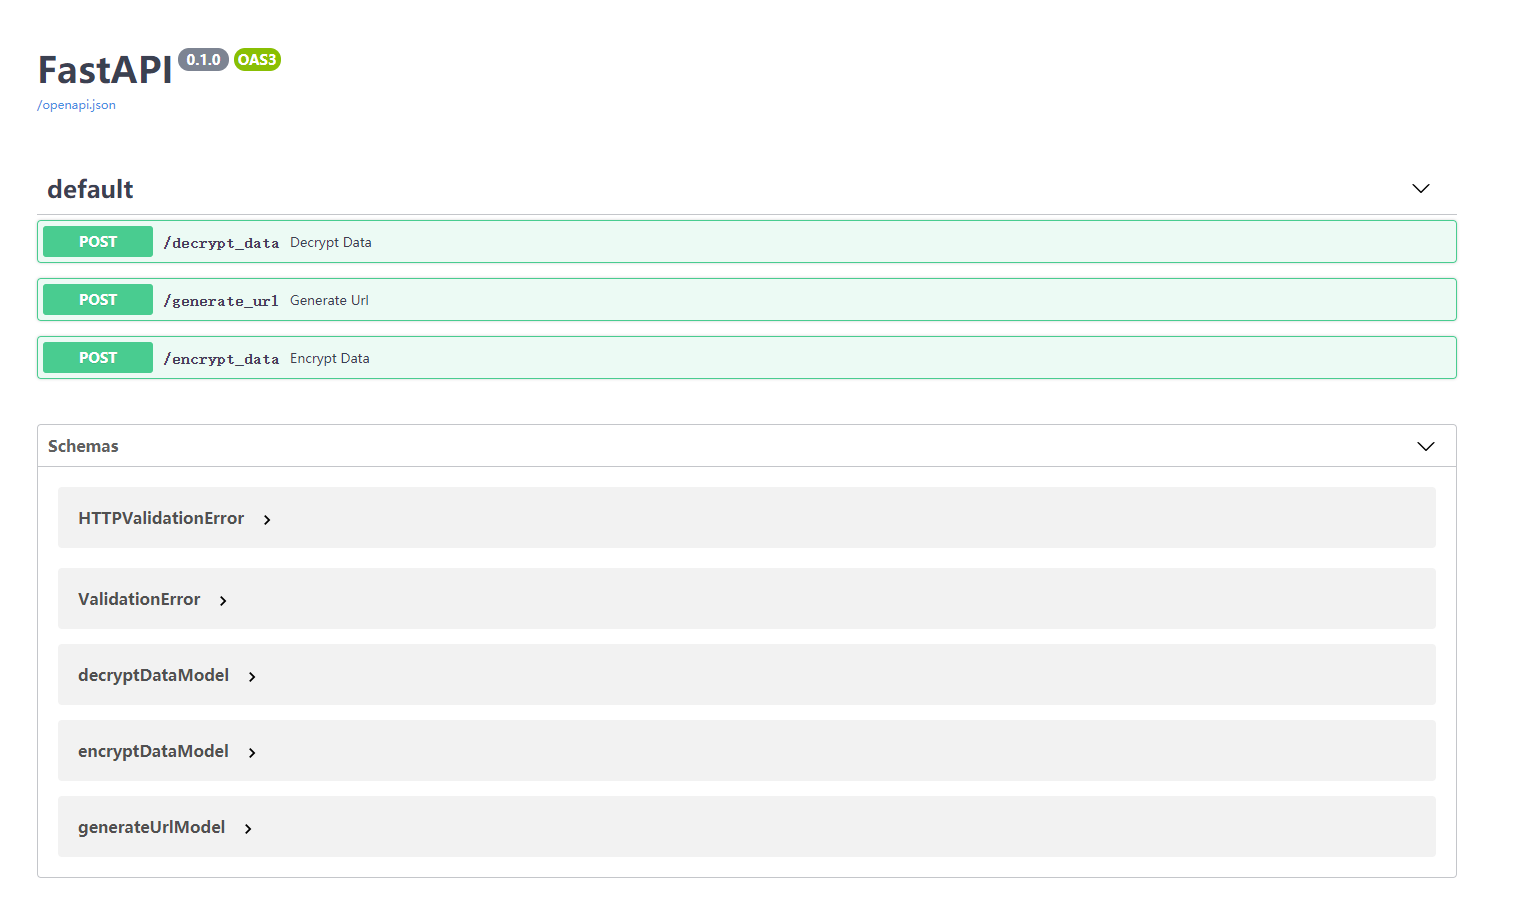
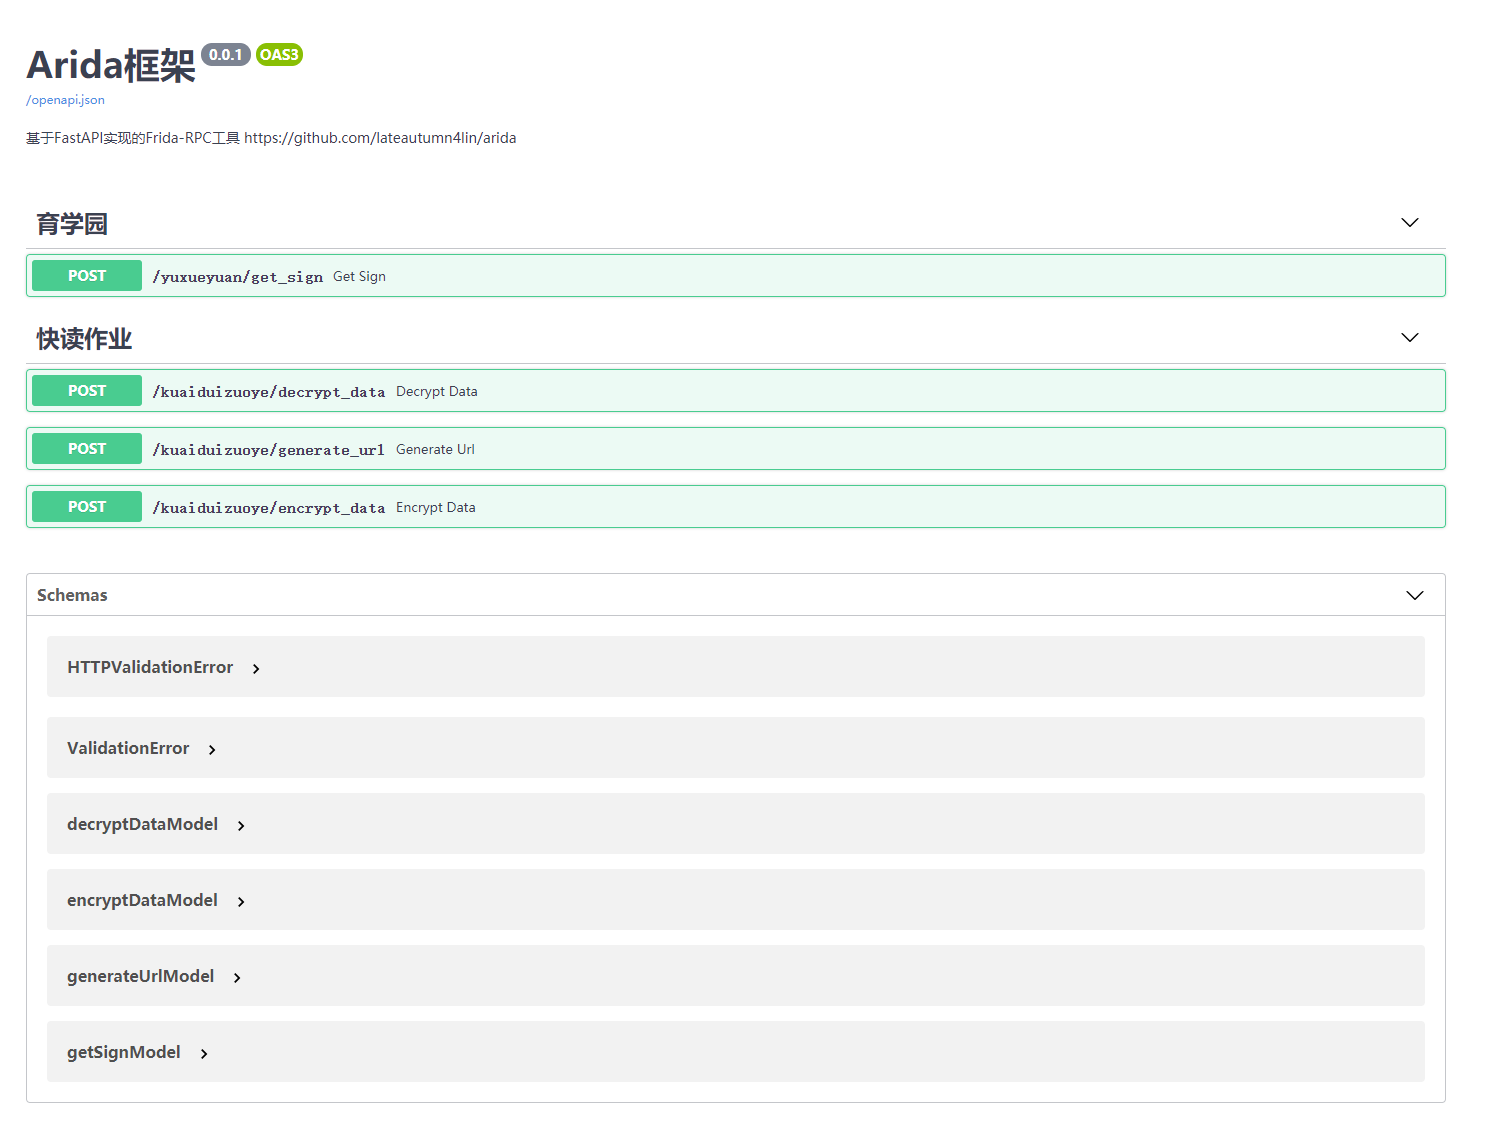
feat：frida对接多个app

diff --git a/apps/yuxueyuan.js b/apps/yuxueyuan.js
@@ -1,0 +1,18 @@
+var result = null;
+function get_sign(body) {
+  Java.perform(function () {
+    try {
+      var ksecurity = Java.use('com.drcuiyutao.lib.api.APIUtils');
+      result = ksecurity.updateBodyString(body)
+      console.log("myfunc result: " + result);
+    } catch (e) {
+      console.log(e)
+    }
+  });
+  return result;
+}
+
+
+rpc.exports = {
+  getSign: get_sign,
+}

diff --git a/main.py b/main.py
@@ -12,6 +12,7 @@
 from pathlib import Path
 from pydantic import BaseModel, Field, create_model
 from fastapi import APIRouter
+from fastapi.openapi.utils import get_openapi
 import time
 import frida
 from starlette.applications import Starlette
@@ -31,40 +32,70 @@ function_params_hints = {
     "encryptData": [0, 0, 0, 0, "", 0, 0, 0, 0, 0, 0]
 }
 # app相关信息
+_frida_js_path1 = Path(__file__).absolute().parent/"apps/yuxueyuan.js"
 _frida_js_path = Path(__file__).absolute().parent/"apps/kuaiduizuoye.js"
 _package_name = "com.kuaiduizuoye.scan"
+_package_name1 = "com.drcuiyutao.babyhealth"
 
-# frida注入
+# frida启动前检测
 if not detect_frida_state():
     # 启动frida-server，增加延迟防止附加失败
     start_frida_server()
     time.sleep(3)
-session = frida.get_usb_device().attach(_package_name)
-script = session.create_script(
-    open(_frida_js_path, encoding="utf-8").read()
-)
-script.load()
+
+for app_info in INJECTION_APPS:
+    session = frida.get_usb_device().attach(app_info["package_name"])
+    app_info["absolute_path"] = Path(__file__).absolute().parent / \
+        f"apps/{app_info['path']}.js"
+    script = session.create_script(
+        open(
+            app_info["absolute_path"],
+            encoding="utf-8"
+        ).read()
+    )
+    script.load()
+    app_info["script"] = script
 
 
 def init_app() -> Starlette:
     app = FastAPI()
     # 每个app创建特有路由
-    router = APIRouter()
-    for api_name, params in get_app_info(parse_path=PRASE_PATH, frida_js_path=_frida_js_path).items():
-        params_dict = dict(zip(params, function_params_hints[api_name])) if (
-            api_name in function_params_hints) else dict.fromkeys(params, "bb")
-        model_name = f"{api_name}Model"
-        Model = create_model(model_name, **params_dict)
-        new_api_name = name_transform(api_name)
-        func = generate_function(
-            new_api_name,
-            script,
-            model_name,
-            Model
+    for app_info in INJECTION_APPS:
+        router = APIRouter()
+        for api_name, params in get_app_info(parse_path=PRASE_PATH, frida_js_path=app_info["absolute_path"]).items():
+            params_dict = dict(zip(params, function_params_hints[api_name])) if (
+                api_name in function_params_hints) else dict.fromkeys(params, "bb")
+            model_name = f"{api_name}Model"
+            Model = create_model(model_name, **params_dict)
+            new_api_name = name_transform(api_name)
+            func = generate_function(
+                new_api_name,
+                app_info["script"],
+                model_name,
+                Model
+            )
+            router.add_api_route(f"/{new_api_name}", func, methods=["POST"])
+        app.include_router(
+            router,
+            prefix=f"/{app_info['path']}",
+            tags=[app_info["name"]]
         )
-        router.add_api_route(f"/{new_api_name}", func, methods=["POST"])
-    # 全局添加各app路由类
-    app.include_router(router)
+
+    def custom_openapi():
+        if app.openapi_schema:
+            return app.openapi_schema
+        openapi_schema = get_openapi(
+            title="Arida框架",
+            version="0.0.1",
+            description="基于FastAPI实现的Frida-RPC工具   https://github.com/lateautumn4lin/arida",
+            routes=app.routes,
+        )
+        openapi_schema["info"]["x-logo"] = {
+            "url": "https://fastapi.tiangolo.com/img/logo-margin/logo-teal.png"
+        }
+        app.openapi_schema = openapi_schema
+        return app.openapi_schema
+    app.openapi = custom_openapi
     return app
 
 

diff --git a/config.py b/config.py
@@ -11,3 +11,15 @@
 '''
 from pathlib import Path
 PRASE_PATH = Path(__file__).absolute().parent / "parse.js"
+INJECTION_APPS = [
+    {
+        "name": "育学园",
+        "path": "yuxueyuan",
+        "package_name": "com.drcuiyutao.babyhealth"
+    },
+    {
+        "name": "快读作业",
+        "path": "kuaiduizuoye",
+        "package_name": "com.kuaiduizuoye.scan"
+    }
+]

diff --git a/README.md b/README.md
@@ -23,6 +23,14 @@ Do By You Self！
 
 `Python`执行`PyexecJs`通过`Js的AST树`结构获取`Frida-Js`脚本中`rpc.exports`的方法以及对应方法的参数个数，根据方法名和参数个数通过`types.FunctionDef`从`Python AST字节码`来动态生成新的`Function对象`，并且结合`pydantic`的`create_model`自动生成的参数模型注册到`FastAPI的路由系统`中，实现`Frida-RPC`的功能。
 
+## 核心功能
+
+1. 对接多个`App`的`RPC接口暴露`
+
+2. 自动转化`Js export`方法变成接口
+
+3. 自动生成接口文档
+
 ## Install
 
 ```sh
